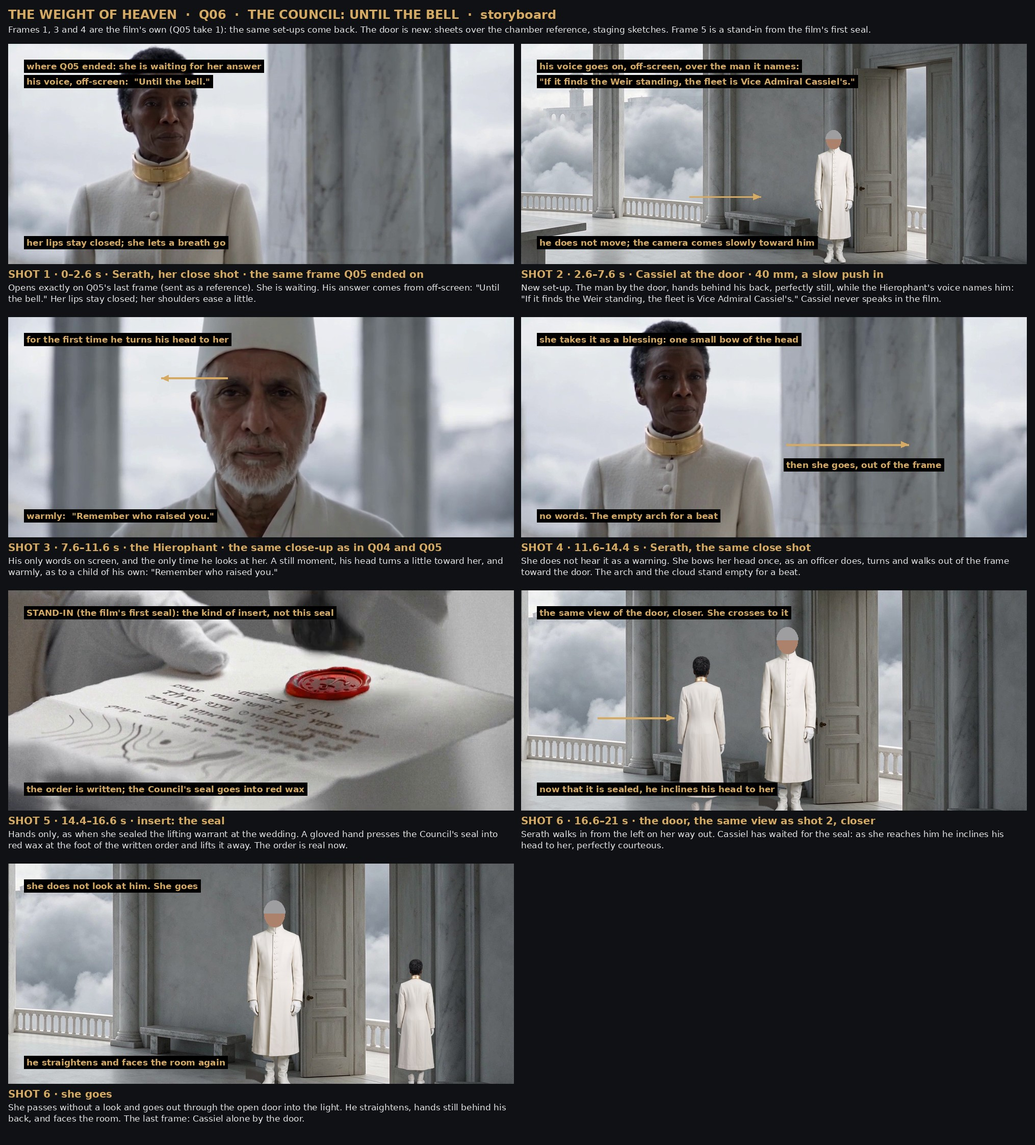
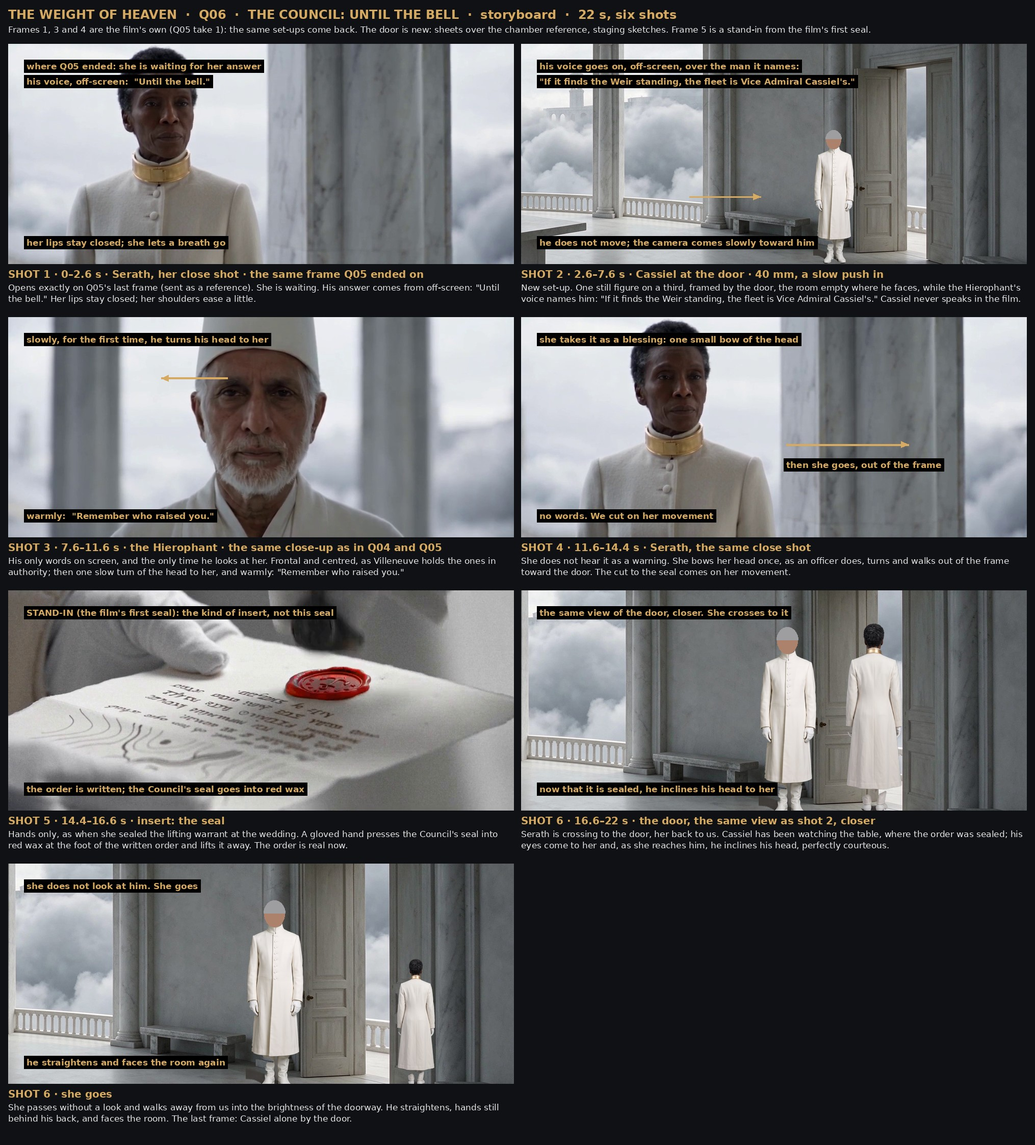
The Weight of Heaven: Q06 package revised after a stills study and an independent review
The author asked whether Dune and Blade Runner stills had been studied for
Q06; they had not. Studied on StillsLab (the three Villeneuve films), which
put Cassiel on a third with the door as his frame and sent Serath out into the
brightness of the doorway. The independent review then changed eight things:
no open pause before the Hierophant's line, the door and its wall written as
the reference has them, Serath in the last shot from its first frame and to
the right of Cassiel, the seal's before and after, a close voice in every
shot, Cassiel's eyes on the table before the bow, and a 22nd second.
Nothing generated. Lessons 103-104.

Claude-Session: https://claude.ai/code/session_01Ufmw2p65L6HH4goCKZmAJH

diff --git a/ai-film/the-weight-of-heaven/tools/board_q06.py b/ai-film/the-weight-of-heaven/tools/board_q06.py
@@ -52,7 +52,7 @@ def sheet(cells, path):
     rows = (len(cells) + 1) // 2
     S = Image.new('RGB', (pad * 2 + W * 2 + gap, hd + rows * (H + cap) + pad), INK)
     d = ImageDraw.Draw(S)
-    d.text((pad, 14), 'THE WEIGHT OF HEAVEN  ·  Q06  ·  THE COUNCIL: UNTIL THE BELL  ·  storyboard', fill=GOLD, font=f0)
+    d.text((pad, 14), 'THE WEIGHT OF HEAVEN  ·  Q06  ·  THE COUNCIL: UNTIL THE BELL  ·  storyboard  ·  22 s, six shots', fill=GOLD, font=f0)
     d.text((pad, 48), 'Frames 1, 3 and 4 are the film\'s own (Q05 take 1): the same set-ups come back. The door is new: sheets over the chamber '
                       'reference, staging sketches. Frame 5 is a stand-in from the film\'s first seal.', fill=PAPER, font=f2)
     for k, (im, title, text) in enumerate(cells):
@@ -92,22 +92,21 @@ def main():
     arrow(d, (330, 300), (470, 300), w=3)
 
     c3 = img(hier); d = ImageDraw.Draw(c3)
-    note(d, (36, 34), 'for the first time he turns his head to her')
+    note(d, (36, 34), 'slowly, for the first time, he turns his head to her')
     arrow(d, (430, 120), (300, 120), w=4)
     note(d, (36, 380), 'warmly:  "Remember who raised you."')
 
     c4 = img(last); d = ImageDraw.Draw(c4)
     note(d, (36, 34), 'she takes it as a blessing: one small bow of the head')
     arrow(d, (520, 250), (760, 250), w=4); note(d, (520, 280), 'then she goes, out of the frame')
-    note(d, (36, 380), 'no words. The empty arch for a beat')
+    note(d, (36, 380), 'no words. We cut on her movement')
 
     c5 = img(seal); d = ImageDraw.Draw(c5)
     note(d, (36, 34), 'STAND-IN (the film\'s first seal): the kind of insert, not this seal')
     note(d, (36, 380), 'the order is written; the Council\'s seal goes into red wax')
 
-    c6 = img(door(1160, 318, 1790, 330, serath=1385, serath_h=318)); d = ImageDraw.Draw(c6)
+    c6 = img(door(1160, 318, 1790, 330, serath=1600, serath_h=372)); d = ImageDraw.Draw(c6)
     note(d, (36, 34), 'the same view of the door, closer. She crosses to it')
-    arrow(d, (150, 250), (300, 250), w=4)
     note(d, (36, 380), 'now that it is sealed, he inclines his head to her')
 
     c7 = img(door(1160, 318, 1790, 330, serath=1668, serath_h=250)); d = ImageDraw.Draw(c7)
@@ -118,17 +117,17 @@ def main():
         (c1, 'SHOT 1 · 0–2.6 s · Serath, her close shot · the same frame Q05 ended on',
          'Opens exactly on Q05\'s last frame (sent as a reference). She is waiting. His answer comes from off-screen: "Until the bell." Her lips stay closed; her shoulders ease a little.'),
         (c2, 'SHOT 2 · 2.6–7.6 s · Cassiel at the door · 40 mm, a slow push in',
-         'New set-up. The man by the door, hands behind his back, perfectly still, while the Hierophant\'s voice names him: "If it finds the Weir standing, the fleet is Vice Admiral Cassiel\'s." Cassiel never speaks in the film.'),
+         'New set-up. One still figure on a third, framed by the door, the room empty where he faces, while the Hierophant\'s voice names him: "If it finds the Weir standing, the fleet is Vice Admiral Cassiel\'s." Cassiel never speaks in the film.'),
         (c3, 'SHOT 3 · 7.6–11.6 s · the Hierophant · the same close-up as in Q04 and Q05',
-         'His only words on screen, and the only time he looks at her. A still moment, his head turns a little toward her, and warmly, as to a child of his own: "Remember who raised you."'),
+         'His only words on screen, and the only time he looks at her. Frontal and centred, as Villeneuve holds the ones in authority; then one slow turn of the head to her, and warmly: "Remember who raised you."'),
         (c4, 'SHOT 4 · 11.6–14.4 s · Serath, the same close shot',
-         'She does not hear it as a warning. She bows her head once, as an officer does, turns and walks out of the frame toward the door. The arch and the cloud stand empty for a beat.'),
+         'She does not hear it as a warning. She bows her head once, as an officer does, turns and walks out of the frame toward the door. The cut to the seal comes on her movement.'),
         (c5, 'SHOT 5 · 14.4–16.6 s · insert: the seal',
          'Hands only, as when she sealed the lifting warrant at the wedding. A gloved hand presses the Council\'s seal into red wax at the foot of the written order and lifts it away. The order is real now.'),
-        (c6, 'SHOT 6 · 16.6–21 s · the door, the same view as shot 2, closer',
-         'Serath walks in from the left on her way out. Cassiel has waited for the seal: as she reaches him he inclines his head to her, perfectly courteous.'),
+        (c6, 'SHOT 6 · 16.6–22 s · the door, the same view as shot 2, closer',
+         'Serath is crossing to the door, her back to us. Cassiel has been watching the table, where the order was sealed; his eyes come to her and, as she reaches him, he inclines his head, perfectly courteous.'),
         (c7, 'SHOT 6 · she goes',
-         'She passes without a look and goes out through the open door into the light. He straightens, hands still behind his back, and faces the room. The last frame: Cassiel alone by the door.'),
+         'She passes without a look and walks away from us into the brightness of the doorway. He straightens, hands still behind his back, and faces the room. The last frame: Cassiel alone by the door.'),
     ]
     sheet(cells, P('design/boards/Q06_board.jpg'))
 

diff --git a/ai-film/the-weight-of-heaven/prompts/Q06.md b/ai-film/the-weight-of-heaven/prompts/Q06.md
@@ -1,6 +1,6 @@
 # Q06 — The council: "Until the bell" · Cassiel · the seal · she goes (B11b)
 
-**v1 · images only, the author's AUTEUR VIDEO PROMPT as it will be sent.** Seedance 2.5 on fal, task `reference`, 21:9, 480p, sound on. Scene 4 of the screenplay, line L10 and the action after it (A30). **Status: package built on the author's word (26 November): "Now let's proceed to next scene". Nothing generated. Waiting for the author's approval of the staging, then the author's go on the final prompt.**
+**v1 · images only, the author's AUTEUR VIDEO PROMPT as it will be sent.** Seedance 2.5 on fal, task `reference`, 21:9, 480p, sound on. Scene 4 of the screenplay, line L10 and the action after it (A30). **Status: package built on the author's word (26 November): "Now let's proceed to next scene"; revised after a study of Villeneuve's frames (the author asked for it) and an independent review (`edit/reviews/Q06_v1_prompt_review.md`). Nothing generated. Waiting for the author's go.**
 
 Q06 follows Q05 directly and opens on its last frame. It ends the council scene; Q07 is beneath Orison.
 
@@ -21,26 +21,39 @@ Q06 follows Q05 directly and opens on its last frame. It ends the council scene;
 
 19 words; 4 of them on a visible mouth. Serath and Cassiel are silent.
 
-## The shots (21 s, 6 shots)
+## The shots (22 s, 6 shots)
 
 | Shot | Time | Picture | Line |
 | --- | --- | --- | --- |
 | 1 | 0–2.6 s | Serath's close shot, the frame Q05 ended on. She is waiting; his answer comes | the Hierophant, off-screen: "Until the bell." |
-| 2 | 2.6–7.6 s | New: Cassiel by the open door, full figure, hands behind his back, still; a slow push toward him | the Hierophant, off-screen: "If it finds the Weir standing, the fleet is Vice Admiral Cassiel's." |
-| 3 | 7.6–11.6 s | The Hierophant, the same close-up as in Q04 and Q05. A still moment; his head turns a little toward her | "Remember who raised you." |
-| 4 | 11.6–14.4 s | Serath, the same close shot. She bows her head once, turns and walks out of the frame; the arch stands empty | none |
-| 5 | 14.4–16.6 s | New: insert, hands only. The Council's seal goes into red wax at the foot of the written order | none |
-| 6 | 16.6–21 s | The door again, closer. Serath crosses to it, her back to us; Cassiel inclines his head as she passes; she goes out; he faces the room | none |
+| 2 | 2.6–7.6 s | New: Cassiel on the right third, in front of the swung-back leaf of the door, hands behind his back, still; the room empty where he faces; a slow push toward him | the Hierophant, off-screen: "If it finds the Weir standing, the fleet is Vice Admiral Cassiel's." |
+| 3 | 7.6–11.6 s | The Hierophant, the same close-up as in Q04 and Q05. Half a second in, his head turns slowly to her, an eighth of a turn; his face warms | "Remember who raised you." |
+| 4 | 11.6–14.4 s | Serath, the same close shot. She bows her head once, turns and walks out of the frame; the cut comes on her movement | none |
+| 5 | 14.4–16.6 s | New: insert, one gloved hand and the page. The Council's seal goes into smooth red wax and lifts away clean | none |
+| 6 | 16.6–22 s | The door again, closer. Cassiel is watching the table; Serath, her back to us, crosses to the door on his right; his eyes come to her and he inclines his head as she passes; she goes into the brightness of the doorway; he faces the room and holds | none |
 
 ## Why it is staged this way
 
 - **His words fall on the people they dispose of.** "Until the bell." is heard on Serath, who asked. The sentence that takes her command away is heard on the man who will get it. The film has done this twice already ("Sarn Vale." on Serath's back, "Heaven has done your arithmetic for you" on her face), and the Dune scripts give the hard word to the listener.
 - **Cassiel gets a face when he gets a name.** He has only been a figure by the door in the wide. He never speaks in the film and matters at the end of it; this is where the audience is told who he is. Held wide and still, as Villeneuve holds a figure; Cameron's rule that a look or a name is answered by what it points at.
-- **The Hierophant is seen once, for the line that carries the film.** "Remember who raised you" is his only line on screen here, and the only time in the scene that he looks at Serath. In Q05 he answered her facing forward. A choice for the author: he could say this one facing forward too.
+- **The Hierophant is seen once, for the line that carries the film.** "Remember who raised you" is his only line on screen here, and the only time in the scene that he looks at Serath: one slow turn of the head. In Q05 he answered her facing forward. It is said as affection, which is why she takes it as a blessing. A choice for the author: he could say this one facing forward too.
 - **Four of nineteen words are on a visible mouth.** In Q04 he spoke five words in under a second on screen, and the author would not have him slowed afterwards. Off-screen words can also be re-timed or replaced in sound without touching a face.
 - **She does not hear the warning.** One bow of the head, an officer's, and she goes. No reaction beyond that.
-- **The seal, then the bow.** The screenplay: "Cassiel waits for the seal before he inclines his head to her, perfectly courteous." An insert makes the cause visible, and repeats the film's first seal (her ring into the wax at the wedding). Here it is the Council's seal in a clerk's hand, not her ring. A choice for the author: the screenplay does not say whose seal it is.
+- **The seal, then the bow.** The screenplay: "Cassiel waits for the seal before he inclines his head to her, perfectly courteous." An insert makes the cause visible, and repeats the film's first seal (her ring into the wax at the wedding). The last shot opens with his eyes on the table, where it was sealed, before they come to her. Here it is the Council's seal in a clerk's hand, not her ring. A choice for the author: the screenplay does not say whose seal it is.
 - **Two set-ups come back** (Serath's close shot, the Hierophant's close-up) and one new one is used twice (the door), so there are three views to keep consistent and one insert.
+
+## What Villeneuve's frames do, and where Q06 uses it
+
+Not done for the first draft; done on the author's question ("Did you search stills film under dune part 1, 2 and blade runner for inspiration!?", 26 November). Studied on StillsLab: a sample of each gallery (Dune: Part One, 206 frames; Dune: Part Two, 284; Blade Runner 2049, 170), then 74 frames at a larger size from the scenes that bear on these six shots. Method only; no frame is copied. The sheet shown to the author is `out/review/Q06_villeneuve_study.jpg` (not committed: the frames are not ours).
+
+| What recurs in his frames | In Q06 |
+| --- | --- |
+| A still figure framed by a doorway or a portal, on a third or dead centre, with empty room in the direction of the look (Part Two, the veiled figure in the pale round room; 2049, the woman in the white coat by the stair) | Shots 2 and 6: Cassiel on the right third, the tall door beside him like a frame, the left two thirds empty room where he faces |
+| The one in authority frontal and centred, pale or soft behind, every movement slow (the Emperor seated; the Reverend Mother in both films; the old man against the blown window in 2049) | Shot 3: the close-up the film already has; one slow turn of the head is the only movement |
+| The listener close, a bright window behind, the face a little under it (Irulan; Paul at the ceremony) | Shots 1 and 4: Serath's close shot as it stands |
+| The insert of one hand and one object, nothing else in the frame (the hand on the knife tray); the sealed scroll large in the foreground of the ceremony | Shot 5: one gloved hand, the page, the wax |
+| A figure walking away from us into a bright opening or haze, becoming a shape (2049, toward the fallen head) | Shot 6: Serath, her back to us, darkening against the daylight of the doorway |
+| A line laid over a wide of people who stand still ("He will strengthen your hand" over the tableau) | Shot 2: the sentence that names Cassiel, over Cassiel |
 
 ## What Q04 and Q05 changed here
 
@@ -52,6 +65,20 @@ Q06 follows Q05 directly and opens on its last frame. It ends the council scene;
 | A returning close-up matches when a frame of it is attached | The Hierophant's close-up frame is attached again (the same Q04 frame as for Q05) |
 | The cloud behind Serath comes back frozen | Expected; `tools/cloud_drift.py` can move it afterwards |
 | Things merely named get drawn | Written as what is wanted; no word of a spoken line is in the directions (checked by script; the name Cassiel excepted) |
+
+## What the independent review changed
+
+| Finding | Change |
+| --- | --- |
+| Shot 3 repeated the open pause that cost Q05 2.9 s of silence ("He lets a moment pass"), and a small turn with the eyes far to one side reads as sly, not warm | No open pause: "Half a second after the cut his head begins to turn ... by 9.0 s it has made an eighth of a turn"; the warmth written as his brow and eyes, not as a simile with two more people in it |
+| Both door shots look at a wall with no tone given; the one earlier shot toward a wall came back dark slate (Q04 shot 5). The door was left to the model | The wall is "pale grey-white marble, as pale as the columns and the floor"; the door as the reference has it: left leaf swung back against the wall, right leaf shut, a bay of plain wall between the last arch and the door; the same words in both shots |
+| Shot 6: her entrance crossed in front of Cassiel, one white coat over another, at twice a walking pace | She is in the frame from its first frame, on its right half, seen from behind, and stays to the right of him |
+| Shot 4 was overfull, ended on a frame with nothing in focus, and the lock said she keeps her place | The bow is timed, the empty-arch hold is gone, the cut comes on her movement; the lock says where she leaves from |
+| The wording that kept a mouth shut in Q05 had been thinned; "breathes slowly", "as a sentry does" and "as his own name is spoken" each invite the wrong thing | Shot 1: "a man's, from off-screen to the right, where she is looking"; shot 2: "an old man's, from off-screen to the left, where he is looking"; the three phrases gone |
+| The seal had no "before" (the film's first seal came back stamped before the press, with wax on the glove) | The wax "smooth and plain" before; the press and the lift timed; "All the wax stays on the page" after |
+| The voice was asked to sound far away for 15 of its 19 words; a roomy voice cannot be dried afterwards | "Close and clear in every shot", as in Q05; distance is added in the mix |
+| "Cassiel waits for the seal" was not on the screen: his bow was cued only by her passing | The last shot opens with his eyes on the table, where the order was sealed; they come to her, then he bows. And a 22nd second for the last hold (the last shot is the one most often squeezed) |
+| Checked and left: every left and right; the three lines; the pace (3.5 to 5 words a second measured in Q05); the template; the six images | |
 
 ## References, in attach order
 
@@ -78,11 +105,11 @@ python3 tools/fal_run.py --name Q06_t1 --prompt prompts/sent/Q06_v1.txt \
   --image refs/ENV_E02_council-chamber.jpg --image refs/frames/Q06_open_serath.jpg \
   --image refs/CHAR_C01_serath.jpg --image refs/CHAR_C05_hierophant.jpg --image refs/CHAR_C04_cassiel.jpg \
   --image refs/frames/Q05_setup_hierophant.jpg \
-  --param task=reference --param duration=21 --param aspect_ratio=21:9 --param draft=true \
+  --param task=reference --param duration=22 --param aspect_ratio=21:9 --param draft=true \
   --param generate_audio=true --param return_last_frame=false
 ```
 
-**One take, 21 s at 480p: about $4.63** ($0.2205 a second, images only). The shot list said 14 s; the lines are timed from the pace the model really spoke at in Q04 and Q05, and the seal and her exit are given room.
+**One take, 22 s at 480p: about $4.85** ($0.2205 a second, images only). The shot list said 14 s; the lines are timed from the pace the model really spoke at in Q04 and Q05, the seal and her exit are given room, and the 22nd second is the last hold on Cassiel.
 
 ## Known risks
 
@@ -91,9 +118,10 @@ python3 tools/fal_run.py --name Q06_t1 --prompt prompts/sent/Q06_v1.txt \
 | Cassiel's lips move while the Hierophant's voice is heard over him (two men) | He is small in a wide frame; "His mouth is closed from the first frame to the last"; the audio lock; Cassiel is named as silent in the voice section |
 | The Hierophant's voice differs from Q04's and Q05's | Nothing in the prompt can; see Voices |
 | The door set-up differs between shots 2 and 6 | Named as one view in each shot and in the continuity lock; the door is in the chamber reference |
-| Serath hides Cassiel as she passes | She passes on the door side of him, with her back to us, the floor between him and the doorway clear |
+| Serath hides Cassiel as she passes | She is on the right half of the frame from its first frame and stays to the right of him |
+| The wall by the door comes back dark, as the wall behind the Engineer did | Its tone is written in the lock and in both shots; if it does, the author has already refused a repair of that kind once |
 | The seal reads as Serath's (a gloved hand, red wax, as at the wedding) | A plain white sleeve, a bronze seal with a handle, not a ring; for the author to judge on the board |
-| The Hierophant's head turn changes his close-up | A small turn, "a little toward the left of the frame", as the Chancellor's in Q05, which held |
+| The Hierophant's head turn changes his close-up | An eighth of a turn, timed, as the Chancellor's in Q05, which held |
 | Handwriting comes back as nonsense letters in focus | "too soft to read"; the focus is on the wax |
 
 ## Takes

diff --git a/ai-film/the-weight-of-heaven/edit/reviews/Q06_v1_prompt_review.md b/ai-film/the-weight-of-heaven/edit/reviews/Q06_v1_prompt_review.md
@@ -1,0 +1,28 @@
+# Q06 v1: independent review of the prompt before it is paid for
+
+A fresh reader with no part in the draft, 26 November. Read-only: it read the prompt, the six reference images, the storyboard, the screenplay, Q04's and Q05's prompts and records, the lessons, and frames of the council scene as it stands in cut v15. It was not told what the author of the draft thought was weak. Verdict: **send after the listed changes.** All are made in `prompts/sent/Q06_v1.txt`; the table of what changed is in `prompts/Q06.md`.
+
+## Findings, most damaging first
+
+1. **Shot 3 repeated the open pause that cost Q05 two seconds, and the look was too small to read.** "He lets a moment pass" and "(after a still moment)" were both in Q05's shot of him, which came back with 2.9 s of silence and ran 5.3 s for 3.2 (lesson 96). A small turn with the eyes far to the side is a sideways glance: sly, not warm. The simile "as a father's does at a grown child" names two more people. Changed to a timed eighth of a turn and a plain description of his face.
+2. **Both door shots look at a wall with no tone given, and the door was left to the model.** The one earlier shot toward a wall (Q04 shot 5) came back dark slate. The reference shows the left leaf swung back against the wall, the right leaf shut, and a bay of plain wall before the door; none of it was written. Changed in the lock and, in the same words, in both shots.
+3. **Shot 6: her entrance crossed in front of Cassiel, and its times were faster than a walk.** One white coat over another at 480p in the busiest shot; about 2 m/s where the physics lock says a real walking pace. "Her eyes on the doorway" named eyes on a back. Changed: she is in the frame from its first frame, on its right half, and stays to the right of him.
+4. **Shot 4 was overfull and ended on its weakest picture, and the lock said she keeps her place.** A bow, a turn, an exit and a half-second hold in 2.8 s; with the lens focused on her, nothing is sharp once she is gone. Changed: the bow timed, the hold dropped, the lock rewritten.
+5. **The off-screen lines: the wording that kept a mouth shut in Q05 had been thinned.** Shot 1 had lost "a man's" and "where she is looking". Shot 2 puts twelve words over the only face in frame, a man's: "He breathes slowly" is a mouth instruction, "as his own name is spoken" can be read as him saying it, "a sentry" can bring a weapon. The reviewer's estimate, not a measurement: shot 1 unlikely to move; shot 2 perhaps one in three, on a face about 40 pixels high, with both lines replaceable in sound. Changed as proposed.
+6. **The seal had no "before", another open "moment", and "crest".** Lesson 14: the film's first seal came back stamped before the press, with wax on the glove. Changed: the wax smooth and plain before, the press and lift timed, all the wax on the page after.
+7. **The voice was asked to sound far away for 15 of its 19 words.** Untested, and a roomy voice cannot be dried. Changed to Q05's sentence: close and clear in every shot.
+8. **As a film: "Cassiel waits for the seal" was not on the screen** (put to the author as a choice). His bow was cued only by her passing. Taken up in its lighter form: the last shot opens with his eyes on the table, where the order was sealed, before they come to her. Also taken up: a 22nd second for the last hold.
+
+Named by the reviewer and not acted on: Serath's face while she hears the condition that costs her the command is missing; it would need a cut in mid-sentence, untested with this model.
+
+## Checked and found sound
+
+- Every left and right and every eyeline, against the room and the film: Serath looks right of camera, the Hierophant turns to frame-left, Cassiel looks off left; her exit right and entrance from the left of the door shot are the correct reverse.
+- No content word of the three lines is in any direction.
+- The three approved trims, once each, one speaker; the voice paragraph word for word Q05's.
+- Pace, measured on Q05's take at 3.5 to 5 words a second: each line fits its window.
+- The template: the same sections in the same order as Q05, seven lines to every shot, six images in attach order.
+- Image 2 is the film's last frame; image 6 matches his close-up at 91 s; Cassiel's description matches his sheet.
+- Shot 2's five seconds are not too long.
+
+Not checked by the reviewer: any sound. Expected at the join: shot 1 is a close face joined mid-shot, so the usual re-registration of about 20 px.

diff --git a/ai-film/the-weight-of-heaven/design/SHOTS.md b/ai-film/the-weight-of-heaven/design/SHOTS.md
@@ -35,7 +35,7 @@ Split as *My Name Is Oren* was (`design/SHOTS.md` on branch `ccr-a1ca9fd6-0m96vq
 | **II. The council (held)** | | | | | | |
 | Q04 | B08–B09 Three days later · Six hundred feet | 24 s, 6 shots | 0:40 | L03–L05 (trimmed, approved) | Images only: ENV_E02, first frame `refs/frames/Q04_open_cup.jpg`, CHAR_C06, CHAR_C08, CHAR_C05, CHAR_C01 | **t1 generated 26 November on the author's go; mended free and cut into the film on the author's word (`out/review/film_v10.mp4`, `edit/film_v10.md`)** (all six shots and all three lines came back as asked; the wine's trembling is too faint and the model added a low drone, both mendable free). v1 package built and revised after three checks (`prompts/Q04.md`, `prompts/sent/Q04_v1.txt`, `design/boards/Q04_board.jpg`). Opens on the cup trembling, built from the very frames of the still cup that ends movement I (a high three-quarter view, not top-down). "THREE DAYS LATER." in post. The Engineer in the middle of the room with nothing to lean on, first with his back to us; the Hierophant frontal, from the collar up; the Engineer stops and looks at Serath; "Sarn Vale." is heard over her back and her head turns, where Q05 opens. About $5.29. |
 | Q05 | B10, B11a The arithmetic · "Give me until the evening bell" | 23 s, 6 shots | 1:00 | L06–L09 (trimmed, approved) | Images only: ENV_E02, first frame `refs/frames/Q05_open_serath.jpg` (Q04's last frame), CHAR_C01, CHAR_C05, CHAR_C06, and Q04's two close-ups as set-up frames | **t1 generated 26 November on the author's go; chosen by the author with two changes and cut into the film (`out/review/film_v14.mp4`, `edit/film_v14.md`)** (all six lines and shots came back as asked; the Hierophant's shot has a long silent head to trim; the two women's voices are close in pitch) (`prompts/Q05.md`, `prompts/sent/Q05_v1.txt`, `design/boards/Q05_board.jpg`). Serath turns to the room and speaks for the first time; the Hierophant answers facing forward, and his kindness is heard on her face; the Chancellor looks at her only to give the order; Serath waits, then asks for time. Ends on her close shot, where Q06 opens. About $5.07. |
-| Q06 | B11b Until the bell | 21 s, 6 shots | 1:16 | L10 (trimmed, approved) | Images only: ENV_E02, first frame `refs/frames/Q06_open_serath.jpg` (Q05's last frame), CHAR_C01, CHAR_C05, CHAR_C04, and the Hierophant's close-up as a set-up frame | **v1 package built 26 November; nothing generated; waiting for the author** (`prompts/Q06.md`). His first two sentences are heard off-screen, over Serath and then over Cassiel at the door; "Remember who raised you" is his only line on screen: warm, and the only time he looks at her. She bows her head and goes. The seal (insert), then Cassiel inclines his head as she passes. |
+| Q06 | B11b Until the bell | 22 s, 6 shots | 1:16 | L10 (trimmed, approved) | Images only: ENV_E02, first frame `refs/frames/Q06_open_serath.jpg` (Q05's last frame), CHAR_C01, CHAR_C05, CHAR_C04, and the Hierophant's close-up as a set-up frame | **v1 package built 26 November; nothing generated; waiting for the author** (`prompts/Q06.md`). His first two sentences are heard off-screen, over Serath and then over Cassiel at the door; "Remember who raised you" is his only line on screen: warm, with one slow turn of the head, the only time he looks at her. She bows her head and goes. The seal (insert), then Cassiel inclines his head as she passes. |
 | **III. Below (montage)** | | | | | | |
 | Q07 | B12 The underside | ≈ 12 s of shots | 1:30 | none | ENV_E04, ENV_E05, ENV_E06, ENV_E07, SHIP_V04, CHAR_C01 | From the cutter's height as it drops out of the cloud (E04 was drawn from the ground: name the height). The bird drops like a stone under an open gate. The underside sits two stops under the band of day. |
 | Q08 | B13–B15 Her own weight · spears · "We stopped carrying it" | 18 s | 1:42 | L13 | ENV_E08, CHAR_C01, CHAR_S03, CHAR_C03, CHAR_C09, CROWD_K03, CHAR_C02, SHIP_V04 | Her knees almost go; the aide falls outright. The farmer's hand on the bowl at his belt (from here on). Karst in the door's shadow; the song cuts on his line. |

diff --git a/ai-film/the-weight-of-heaven/design/DECISIONS.md b/ai-film/the-weight-of-heaven/design/DECISIONS.md
@@ -78,7 +78,7 @@ Settled with the author. Started 2026-11-25. Sources: the screenplay, third draf
 | Film cut v14: Q05 joined on | The author (26 November), after comparing the take as generated with a copy carrying two changes: "Q05_t1_two_changes.mp4... Okay I prefer it merge it". Q05 take 1 with the Hierophant's silent start trimmed and the drone out of the gaps, voices and faces untouched, joined to Q04 as one continuous shot of Serath at her arch (registered onto Q04's framing). `out/review/film_v14.mp4`, 105.0 s; record `edit/film_v14.md`. |
 | Cloud movement by editing: the test | The author (26 November): "Can you make the cloud to look like it's moving in edit... It looks like it's a painting instead of real cloud". Tested on one shot (Q04 take 1, Serath at her arch): the sky and the top of the cloud bank, frozen in the take, are given a slow drift to the right with the take's own low mist; stone, Serath and the cloud that already moves are untouched. `out/review/cloud_test_before.mp4`, `out/review/cloud_test_after.mp4`; tool `tools/cloud_drift.py`. |
 | Film cut v15: the cloud at Serath's arch moves | The author (26 November), on the test: "I love it... So merge everything together". The frozen sky and cloud bank drift through the whole shot (Q04's last and Q05's first) on one clock; in Q05's half the cloud right of the right column carries on leftward instead of freezing. Everything else is cut v14, frame for frame; sound unchanged. `out/review/film_v15.mp4`, 105.0 s; record `edit/film_v15.md`. The wide of the chamber and Serath's close shots (still cloud, but a slow push-in) are not done: a separate test first. |
-| Q06 package (the end of the council) | The author (26 November): "Now let's proceed to next scene". Built for approval, nothing generated: 21 s, six shots, six images, about $4.63. `prompts/Q06.md`, `prompts/sent/Q06_v1.txt`, `design/boards/Q06_board.jpg`. Two choices put to the author: the Hierophant turns his head to Serath for "Remember who raised you" (in Q05 he faced forward), and the seal is the Council's in a clerk's hand (the screenplay does not say whose). |
+| Q06 package (the end of the council) | The author (26 November): "Now let's proceed to next scene". Built for approval, nothing generated: 22 s, six shots, six images, about $4.85; revised after a study of Villeneuve's frames on StillsLab (the author asked whether it had been done; it had not) and an independent review. `prompts/Q06.md`, `prompts/sent/Q06_v1.txt`, `design/boards/Q06_board.jpg`. Two choices put to the author: the Hierophant turns his head to Serath for "Remember who raised you" (in Q05 he faced forward), and the seal is the Council's in a clerk's hand (the screenplay does not say whose). |
 | Video model (proposed) | Seedance 2.5 on fal, 21:9, as for Oren: drafts at 480p, finals from the chosen draft; at Oren's rate (about $0.22 a second) one final pass of all 26 generations is about $100. Awaiting the author. |
 | Branch | This session works on `ccr-0244e8fe-7z8rbw` (the environment's required branch) rather than a branch named after the slug; it merges to `main` only when the author signs the film off. |
 

diff --git a/ai-film/the-weight-of-heaven/LESSONS.md b/ai-film/the-weight-of-heaven/LESSONS.md
@@ -198,6 +198,13 @@ The author (26 November): "Pls restore back Hierophant voice", and of the Engine
 | 101 | **A shot made of two takes gets one clock and two plates.** The arch shot is Q04's last shot dissolved into Q05's first. The added drift is one function of the shot's time, so the cloud bank is in the same place on both sides of the join; each half is worked from its own plate, because the takes differ by a few levels. And each half is measured separately: Q05 had frozen the cloud right of the column that Q04 had moving leftward, and had reversed the low mist. Movement that begins inside a shot starts from nothing at the join and comes in over most of a second. | Cut v15, `tools/combine_film_v15.py`. | Every repair that runs across a join. |
 | 102 | **Before promising "the other shots", measure their cameras.** I offered to apply the still-camera method to the other shots with still cloud. Tracked, every one of them (the wide, Serath's three close shots) has a slow push-in, and the method does not apply as it stands. Survey first, offer second. | The survey for cut v15. | Any offer to roll a fix out across a film. |
 
+## From building Q06's package
+
+| # | Lesson | Where it came from | Applies to |
+|---|---|---|---|
+| 103 | **The frames are studied before the board is drawn, for every package.** Q02 and Q03 were staged from Villeneuve's frames; Q04, Q05 and the first draft of Q06 were staged from this file's summary of them. The author asked ("Did you search stills ... for inspiration!?") and the answer was no. Done then, the study put Cassiel on a third with the door as his frame and empty room where he faces, and sent Serath out into the brightness of the doorway: neither was in the draft. A summary of a look is not a look. | Q06, 26 November. | Every package: look at the frames for the shot types in it first, and say in the package what was looked at. |
+| 104 | **StillsLab from this container:** its pages and its own image route (`/_next/image?url=...`) are reachable; its image host and its search data are not. Each gallery page lists its frames in film order, so sample a gallery, then look closely at the neighbourhoods that matter. Its terms allow reading for a person and forbid bulk copying: take what the shots need, keep the frames out of the repository. | The same. | Reference study. |
+
 ## From *My Name Is Oren*, applied here
 
 | Oren # | Lesson, short | How it is applied |
